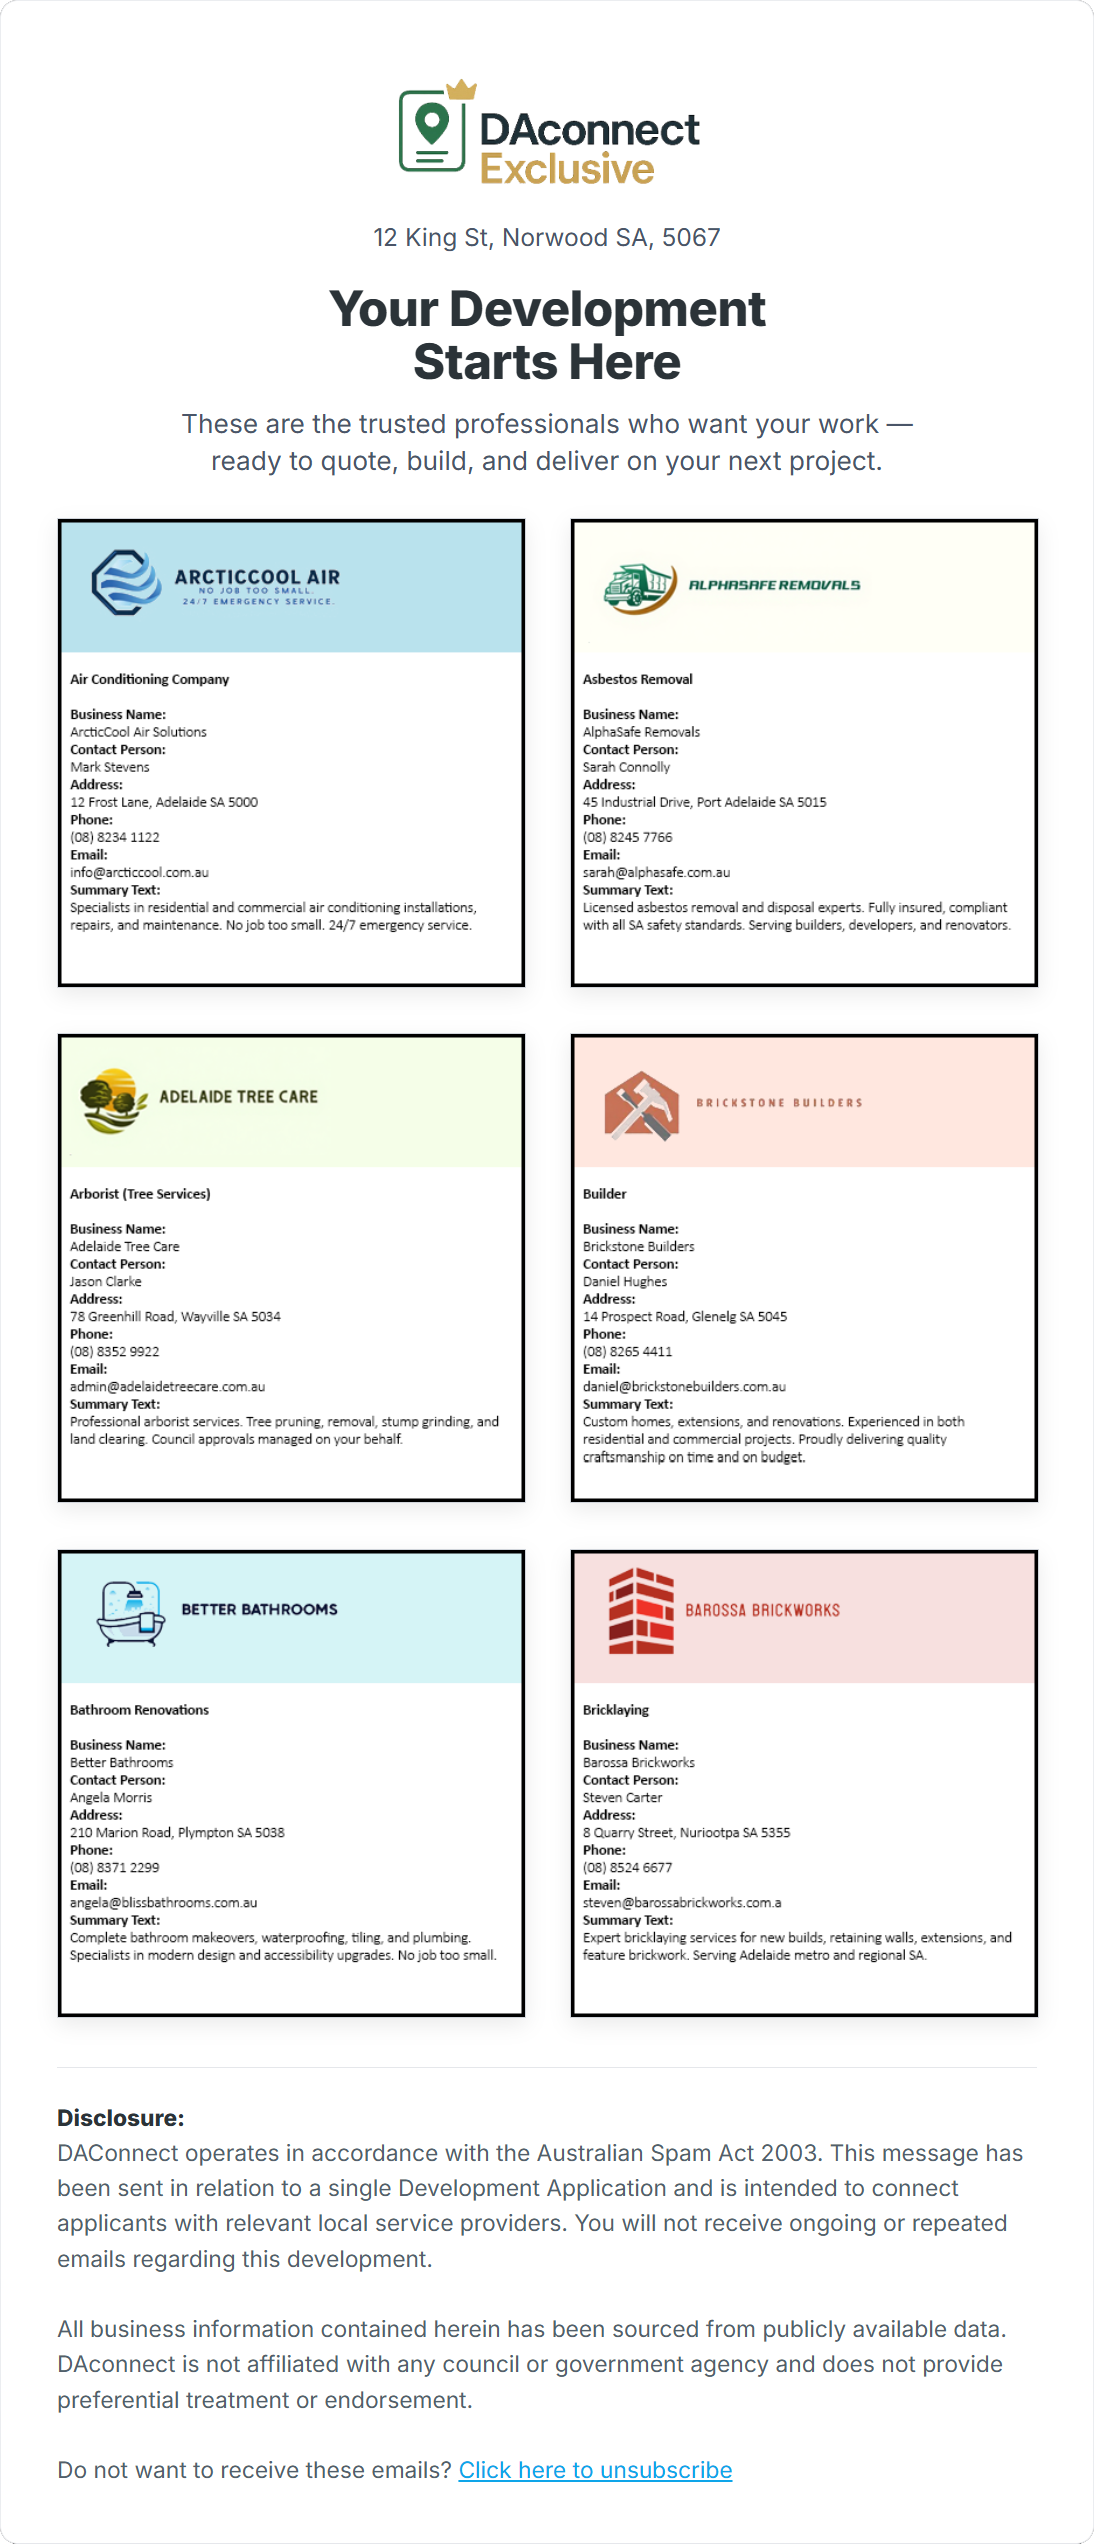
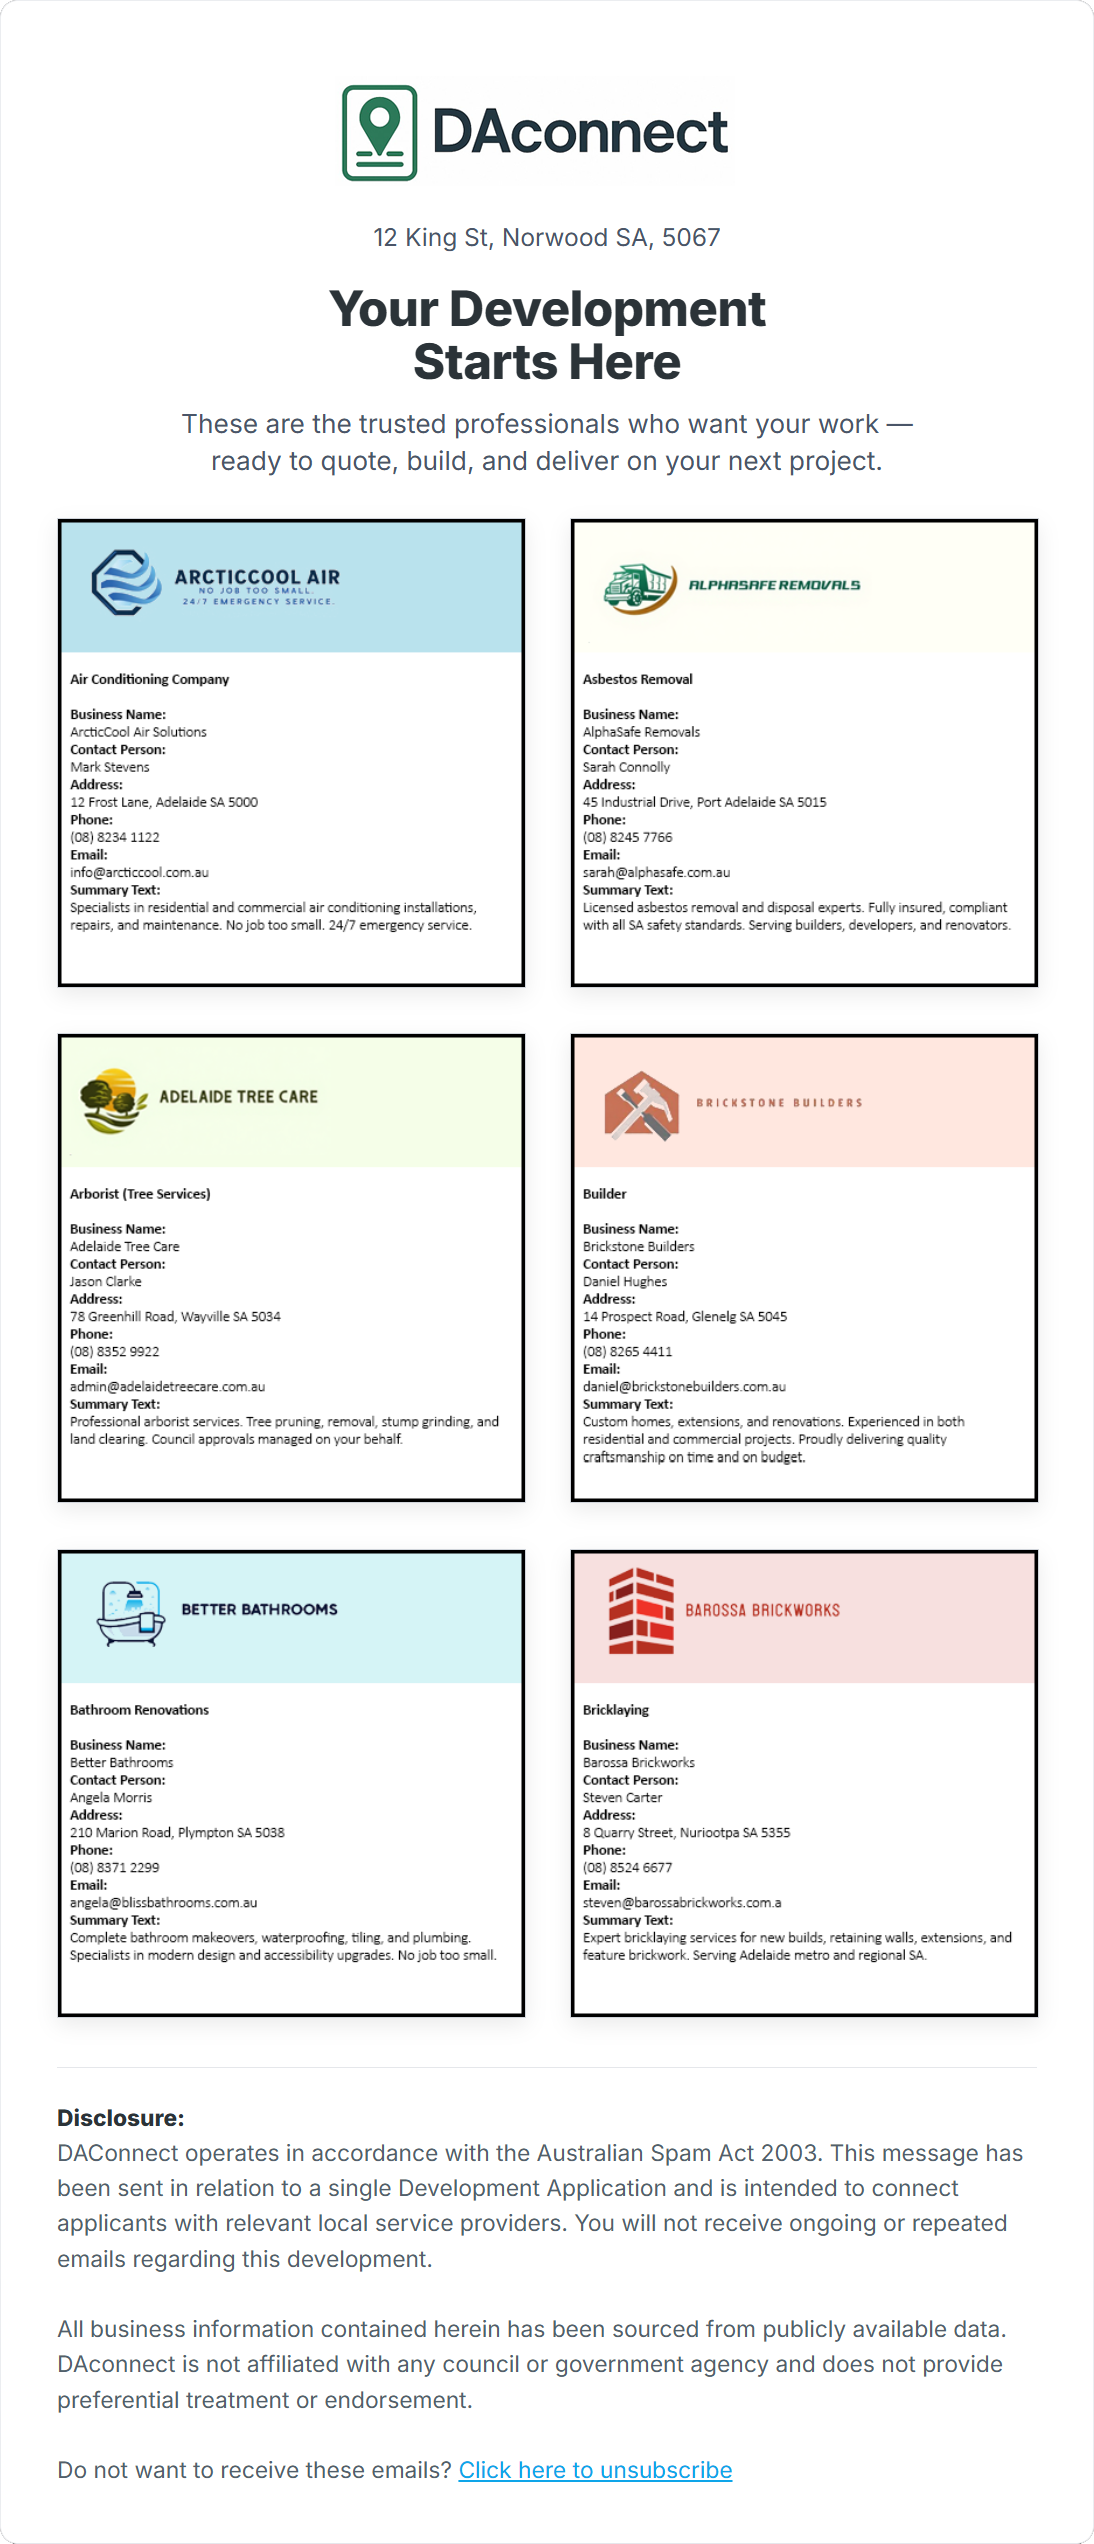
Fixing exclusive image and removing exclusive

Changed region(s): [[0.3108, 0.0311, 0.6837, 0.0932]]

diff --git a/faq.html b/faq.html
@@ -86,7 +86,7 @@
       <div class="text-center">
         <span class="badge bg-secondary bg-opacity-10 text-secondary px-4 py-2 mb-3" style="font-weight: 500; letter-spacing: 1px;">QUESTIONS & ANSWERS</span>
         <h1 class="fw-bold mb-3" style="color: var(--primary-color);">Frequently Asked Questions</h1>
-        <p class="lead text-muted mx-auto" style="max-width: 700px;">Everything you need to know about DAconnect Exclusive and how it works for your business.</p>
+        <p class="lead text-muted mx-auto" style="max-width: 700px;">Everything you need to know about DAconnect and how it works for your business.</p>
         <div class="divider mx-auto" style="width: 80px; height: 4px; background-color: var(--secondary-color); margin: 1.5rem auto 0; border-radius: 2px;"></div>
       </div>
     </div>
@@ -96,23 +96,23 @@
     <div class="container" style="max-width: 900px;">
       <div class="faq-item">
         <div class="faq-question">What is sent</div>
-        <div class="faq-answer">Each DAconnect Exclusive email contains a professionally presented, single-page summary of up to 14 carefully selected local businesses. This includes logos, service descriptions, and direct contact details.</div>
+        <div class="faq-answer">Each DAconnect email contains a professionally presented, single-page summary of up to 14 carefully selected local businesses. This includes logos, service descriptions, and direct contact details.</div>
       </div>
       <div class="faq-item">
-        <div class="faq-question">Who receives the DAconnect Exclusive email</div>
-        <div class="faq-answer">DAconnect Exclusive is issued to all relevant, publicly listed Development Application email contacts. Non-applicable government (.gov) addresses are excluded by design.</div>
+        <div class="faq-question">Who receives the DAconnect email</div>
+        <div class="faq-answer">DAconnect is issued to all relevant, publicly listed Development Application email contacts. Non-applicable government (.gov) addresses are excluded by design.</div>
       </div>
       <div class="faq-item">
-        <div class="faq-question">When are DAconnect Exclusive emails sent</div>
-        <div class="faq-answer">DAconnect Exclusive emails are sent shortly after a Development Application is lodged, once the relevant public contact details are available.</div>
+        <div class="faq-question">When are DAconnect emails sent</div>
+        <div class="faq-answer">DAconnect emails are sent shortly after a Development Application is lodged, once the relevant public contact details are available.</div>
       </div>
       <div class="faq-item">
-        <div class="faq-question">How many exclusive emails are sent</div>
+        <div class="faq-question">How many emails are sent</div>
         <div class="faq-answer">We send a single email to each development-related contact address only, ensuring full compliance with Australian law.</div>
       </div>
       <div class="faq-item">
         <div class="faq-question">How many businesses are included</div>
-        <div class="faq-answer">Each DAconnect Exclusive email includes a maximum of 14 businesses.</div>
+        <div class="faq-answer">Each DAconnect email includes a maximum of 14 businesses.</div>
       </div>
       <div class="faq-item">
         <div class="faq-question">Will I be the only business of my type</div>
@@ -120,7 +120,7 @@
       </div>
       <div class="faq-item">
         <div class="faq-question">Where will my business be placed</div>
-        <div class="faq-answer">Business placement within each DAconnect Exclusive email is randomly ordered for every send. This ensures fairness across campaigns.</div>
+        <div class="faq-answer">Business placement within each DAconnect email is randomly ordered for every send. This ensures fairness across campaigns.</div>
       </div>
       <div class="faq-item">
         <div class="faq-question">Can I cancel at any time</div>
@@ -128,7 +128,7 @@
       </div>
       <div class="faq-item">
         <div class="faq-question">What happens when I cancel</div>
-        <div class="faq-answer">Once a cancellation is requested, your business will simply be removed from future DAconnect Exclusive emails. There are no penalties or additional charges.</div>
+        <div class="faq-answer">Once a cancellation is requested, your business will simply be removed from future DAconnect emails. There are no penalties or additional charges.</div>
       </div>
       <div class="faq-item">
         <div class="faq-question">Is there a minimum term</div>
@@ -144,7 +144,7 @@
       </div>
       <div class="faq-item">
         <div class="faq-question">Will I receive confirmation that my business was included</div>
-        <div class="faq-answer">Yes. Businesses receive confirmation that their details were included in DAconnect Exclusive communications.</div>
+        <div class="faq-answer">Yes. Businesses receive confirmation that their details were included in DAconnect communications.</div>
       </div>
       <div class="faq-item">
         <div class="faq-question">Can I pay for better placement</div>
@@ -160,7 +160,7 @@
       </div>
       <div class="faq-item">
         <div class="faq-question">Are my business details shared elsewhere</div>
-        <div class="faq-answer">No. Your business details are used solely for inclusion in DAconnect Exclusive communications. Your information is not sold, shared, or used for unrelated marketing purposes.</div>
+        <div class="faq-answer">No. Your business details are used solely for inclusion in DAconnect communications. Your information is not sold, shared, or used for unrelated marketing purposes.</div>
       </div>
       <div class="faq-item">
         <div class="faq-question">Can I change my business details later</div>

diff --git a/index.html b/index.html
@@ -506,7 +506,7 @@ src="https://www.facebook.com/tr?id=838312912574438&ev=PageView&noscript=1"
         <span class="badge bg-secondary bg-opacity-10 text-secondary px-4 py-2 mb-3"
           style="font-weight: 500; letter-spacing: 1px;">PRICING</span>
         <h2 class="fw-bold mb-4">Simple, Transparent <span class="text-secondary">Pricing</span></h2>
-        <p class="lead text-muted mx-auto" style="max-width: 700px;">Get ahead of the competition with DAconnect Exclusive. No hidden fees, cancel anytime.</p>
+        <p class="lead text-muted mx-auto" style="max-width: 700px;">Get ahead of the competition with DAconnect. No hidden fees, cancel anytime.</p>
         <div class="divider mx-auto"
           style="width: 80px; height: 4px; background-color: var(--secondary-color); margin: 1.5rem auto 0; border-radius: 2px;">
         </div>
@@ -586,7 +586,7 @@ src="https://www.facebook.com/tr?id=838312912574438&ev=PageView&noscript=1"
       <div class="text-center mb-4">
         <span class="badge bg-secondary bg-opacity-10 text-secondary px-4 py-2 mb-3" style="font-weight: 500; letter-spacing: 1px;">FREE SAMPLE</span>
         <h2 class="fw-bold mb-3">See What You'll Receive</h2>
-        <p class="lead text-muted mx-auto" style="max-width: 720px;">We'll send you a free sample so you can see DAconnect Exclusive in action before you subscribe.</p>
+        <p class="lead text-muted mx-auto" style="max-width: 720px;">We'll send you a free sample so you can see DAconnect in action before you subscribe.</p>
         <div class="divider mx-auto" style="width: 80px; height: 4px; background-color: var(--secondary-color); margin: 1.25rem auto 0; border-radius: 2px;"></div>
       </div>
       <div class="row justify-content-center align-items-center g-4 mb-2">
@@ -605,7 +605,7 @@ src="https://www.facebook.com/tr?id=838312912574438&ev=PageView&noscript=1"
         </div>
         <a href="#contact" class="btn btn-primary btn-lg free-sample-btn mt-3" style="border-radius: 10px; padding: 0.85rem 2rem;"
            data-enquiry-type="Free Sample Request"
-           data-message="I'd like to receive a free sample of DAconnect Exclusive.">
+           data-message="I'd like to receive a free sample of DAconnect.">
           Get Free Sample
         </a>
         <p class="text-muted mt-3 mb-0">Prefer email? Contact us at
@@ -668,20 +668,6 @@ src="https://www.facebook.com/tr?id=838312912574438&ev=PageView&noscript=1"
                     </div>
 
                     <!-- Enquiry Category -->
-                    <div class="mb-4">
-                      <label class="form-label fw-medium d-block mb-2">Enquiry Category</label>
-                      <div class="d-flex flex-wrap gap-4">
-                        <div class="form-check">
-                          <input class="form-check-input" type="radio" name="enquiryCategory" id="enquiryGeneral" value="General Enquiry" checked>
-                          <label class="form-check-label" for="enquiryGeneral">General Enquiry</label>
-                        </div>
-                        <div class="form-check">
-                          <input class="form-check-input" type="radio" name="enquiryCategory" id="enquiryExclusive" value="Exclusive">
-                          <label class="form-check-label" for="enquiryExclusive">Exclusive</label>
-                        </div>
-                      </div>
-                    </div>
-
                     <div class="mb-4">
                       <label for="message" class="form-label fw-medium">Your Message <span
                           class="text-danger">*</span></label>

diff --git a/exclusive.html b/exclusive.html
@@ -3,7 +3,7 @@
 <head>
   <meta charset="utf-8" />
   <meta name="viewport" content="width=device-width,initial-scale=1" />
-  <title>DAconnect Exclusive — Sample Flyer</title>
+  <title>DAconnect — Sample Flyer</title>
 
   <!-- Fonts (match your site) -->
   <link href="https://fonts.googleapis.com/css2?family=Inter:wght@400;600;800&display=swap" rel="stylesheet">
@@ -189,9 +189,9 @@
   </style>
 </head>
 <body>
-  <div class="flyer" role="document" aria-label="DAconnect Exclusive sample flyer">
+  <div class="flyer" role="document" aria-label="DAconnect sample flyer">
     <div class="logo">
-      <img src="images/Daconnect_exclusive_transparent.png" alt="DAconnect logo">
+      <img src="images/DA-Connect_logo_title_transparent.png" alt="DAconnect logo">
     </div>
 
     <div class="address">12 King St, Norwood SA, 5067</div>
